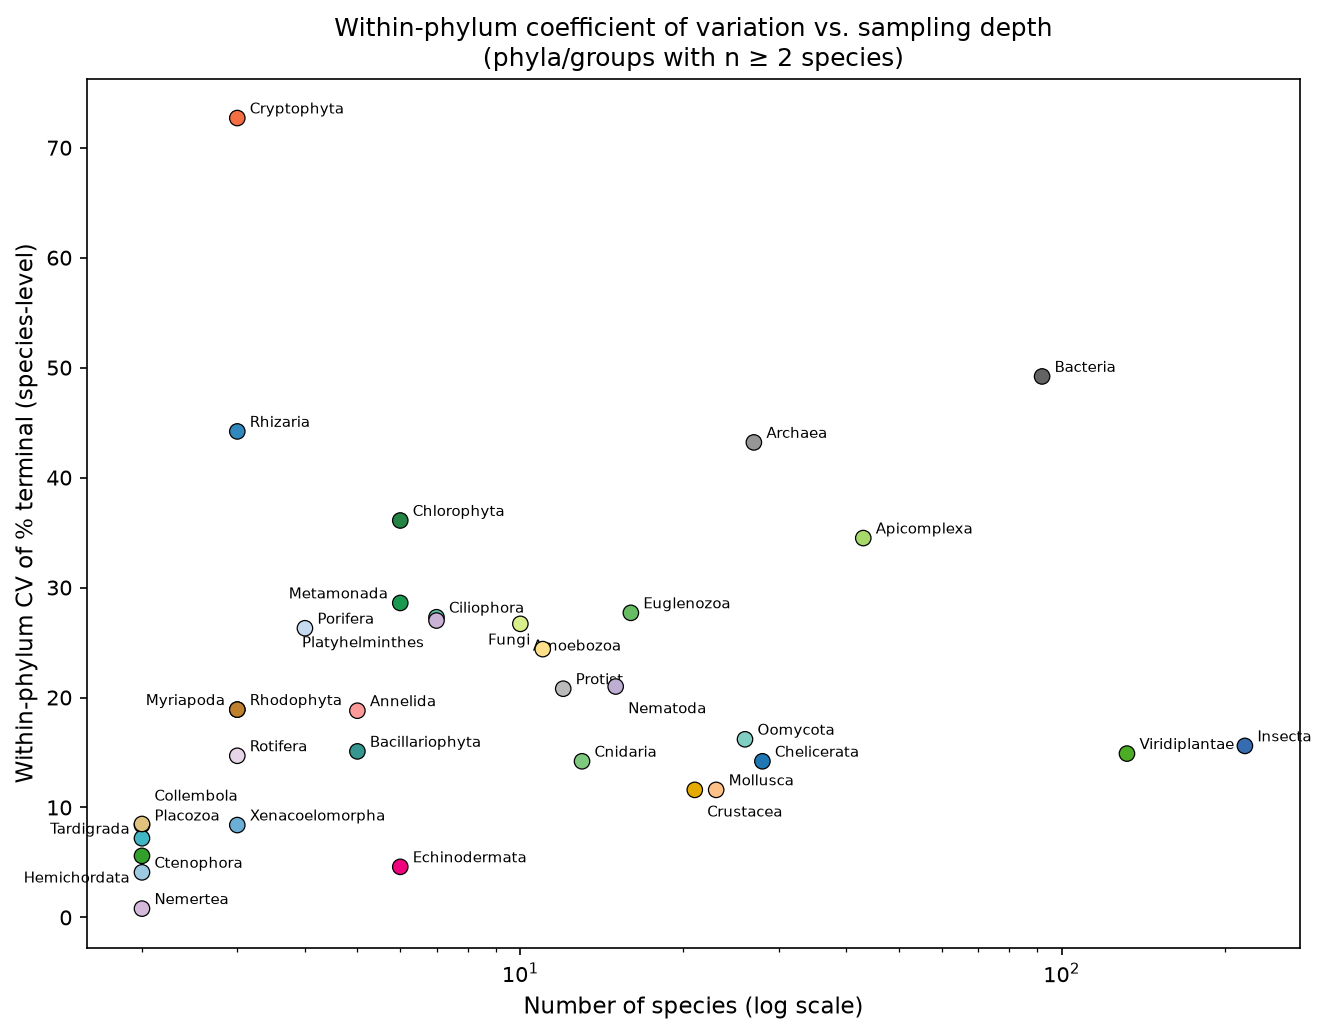
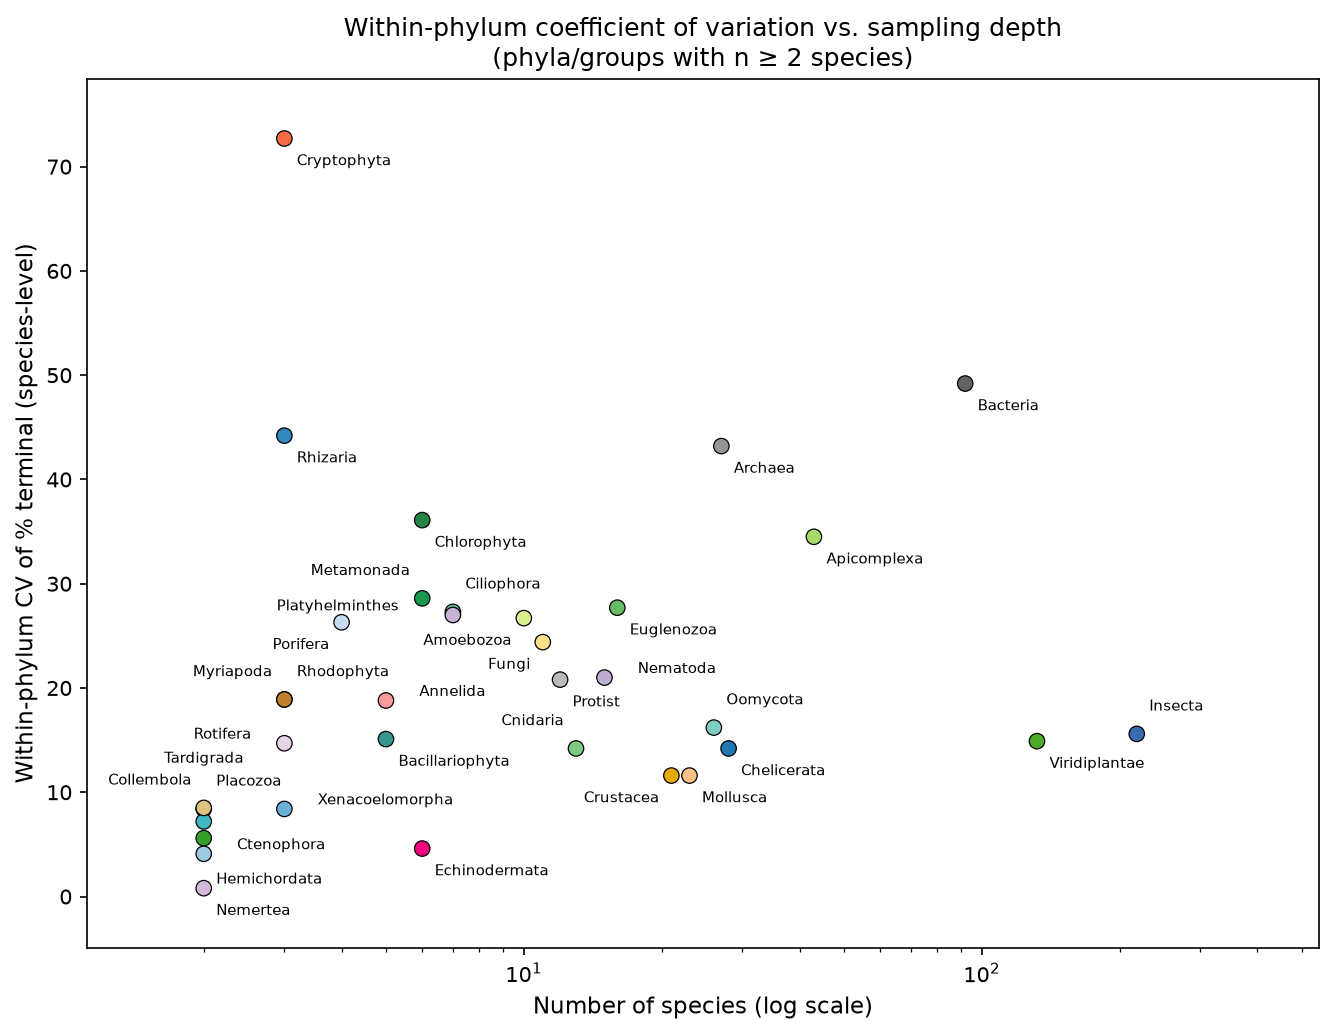
Keep Supp Fig 4 labels inside the axes and off the data markers
The previous label-placement fix avoided label-vs-label overlap but not
label-vs-plot-boundary or label-vs-marker overlap, so a few labels ran
past the axis edge (e.g. the leftmost, lowest-n phyla) and Metamonada's
label sat partly under the Ciliophora dot, whose higher z-order painted
over its last two letters.

Fixes: added explicit axis padding beyond the data range so edge points
have room, an in-bounds check so a candidate offset is only accepted if
it stays inside the axes rectangle, and obstacle boxes for every scatter
marker (not just previously-placed labels) so a label can no longer land
on top of a neighbouring dot. Added a few longer-radius candidate offsets
so tightly clustered points can still find a free slot within the now
enforced bounds.

suppfig1_phylum_distribution.pdf is byte-diffed as "modified" only
because re-running the owning script re-saved it (PDF metadata) — its
code and content are unchanged; its PNG is identical and not in this diff.

diff --git a/scripts/09_phylum_stats.py b/scripts/09_phylum_stats.py
@@ -23,6 +23,7 @@ import numpy as np
 import matplotlib
 matplotlib.use("Agg")
 import matplotlib.pyplot as plt
+import matplotlib.transforms
 from scipy.stats import kruskal, mannwhitneyu
 from pathlib import Path
 
@@ -32,50 +33,70 @@ from config import (
 )
 
 
-def _place_labels_no_overlap(fig, ax, xs, ys, labels, fontsize=7, pad_px=2.0):
+def _place_labels_no_overlap(fig, ax, xs, ys, labels, fontsize=7, pad_px=2.0,
+                              marker_size_pt2=55):
     """
     Annotate each (x, y) point with its label, picking the first candidate
     offset (in points, tried in increasing distance from the point) whose
-    rendered bounding box doesn't overlap a already-placed label. Falls back
-    to the offset with the least overlap if every candidate collides — dense
-    clusters (e.g. several low-n phyla at similar CV) would otherwise stack
-    labels on top of each other with a fixed offset.
+    rendered bounding box doesn't overlap a already-placed label or any
+    scatter marker. Falls back to the least-bad candidate if every option
+    collides — dense clusters (e.g. several low-n phyla at similar CV) would
+    otherwise stack labels on top of each other or under a neighbouring dot
+    (whose higher z-order then paints over the label text) with a fixed
+    offset.
     """
     fig.canvas.draw()  # establish a renderer so get_window_extent() works
     renderer = fig.canvas.get_renderer()
+    axes_box = ax.get_window_extent(renderer)  # plot area in display pixels
 
     candidates = [
         (6, 4, "left"), (6, -11, "left"), (-6, 4, "right"), (-6, -11, "right"),
         (6, 13, "left"), (-6, 13, "right"), (6, -20, "left"), (-6, -20, "right"),
         (16, 4, "left"), (-16, 4, "right"), (16, -11, "left"), (-16, -11, "right"),
         (0, 20, "center"), (0, -22, "center"),
+        (26, 4, "left"), (-26, 4, "right"), (0, 30, "center"), (0, -32, "center"),
     ]
 
-    placed_boxes = []  # display-coordinate (x0, y0, x1, y1) of placed labels
+    # Every scatter marker is a permanent obstacle so a label never lands on
+    # top of a (higher z-order) dot and gets visually clipped by it.
+    marker_radius_px = ((marker_size_pt2 / 3.14159) ** 0.5) * fig.dpi / 72.0 + pad_px
+    placed_boxes = []  # display-coordinate (x0, y0, x1, y1) of obstacles (markers + placed labels)
+    for x, y in zip(xs, ys):
+        cx, cy = ax.transData.transform((x, y))
+        placed_boxes.append(matplotlib.transforms.Bbox(
+            [[cx - marker_radius_px, cy - marker_radius_px],
+             [cx + marker_radius_px, cy + marker_radius_px]]))
 
     def _overlaps(b1, b2):
         return not (b1.x1 + pad_px < b2.x0 or b2.x1 + pad_px < b1.x0 or
                     b1.y1 + pad_px < b2.y0 or b2.y1 + pad_px < b1.y0)
 
+    def _inside_axes(bbox):
+        return (bbox.x0 >= axes_box.x0 and bbox.x1 <= axes_box.x1 and
+                bbox.y0 >= axes_box.y0 and bbox.y1 <= axes_box.y1)
+
     for x, y, label in zip(xs, ys, labels):
-        best_dx, best_dy, best_ha, best_overlap_count = candidates[0][0], candidates[0][1], candidates[0][2], None
+        best_dx, best_dy, best_ha = candidates[0][0], candidates[0][1], candidates[0][2]
+        best_score = None  # (out_of_bounds: bool, n_overlap: int) — lower is better
         for dx, dy, ha in candidates:
             txt = ax.annotate(
                 label, xy=(x, y), xytext=(dx, dy), textcoords="offset points",
                 ha=ha, va="center", fontsize=fontsize,
             )
             bbox = txt.get_window_extent(renderer)
+            out_of_bounds = not _inside_axes(bbox)
             n_overlap = sum(_overlaps(bbox, b) for b in placed_boxes)
-            if n_overlap == 0:
+            score = (out_of_bounds, n_overlap)
+            if score == (False, 0):
                 placed_boxes.append(bbox)
-                best_overlap_count = 0
+                best_score = score
                 break
             txt.remove()
-            if best_overlap_count is None or n_overlap < best_overlap_count:
-                best_overlap_count = n_overlap
+            if best_score is None or score < best_score:
+                best_score = score
                 best_dx, best_dy, best_ha = dx, dy, ha
         else:
-            # Nothing collision-free: keep the least-overlapping candidate.
+            # Nothing both in-bounds and collision-free: keep the best-scoring candidate.
             txt = ax.annotate(
                 label, xy=(x, y), xytext=(best_dx, best_dy),
                 textcoords="offset points", ha=best_ha, va="center",
@@ -190,6 +211,14 @@ def main():
     ax4.scatter(cv_plot["n_species"], cv_plot["cv_pct"], c=colours4, s=55,
                 edgecolors="black", linewidths=0.6, zorder=5)
     ax4.set_xscale("log")
+    # Extra headroom beyond the data range so edge-point labels (e.g. the
+    # leftmost single-digit-species phyla, or Insecta at the far right) have
+    # somewhere to go instead of being pushed past the plot border.
+    x_min, x_max = cv_plot["n_species"].min(), cv_plot["n_species"].max()
+    ax4.set_xlim(x_min / 1.8, x_max * 2.5)
+    y_min, y_max = cv_plot["cv_pct"].min(), cv_plot["cv_pct"].max()
+    y_pad = (y_max - y_min) * 0.08
+    ax4.set_ylim(y_min - y_pad, y_max + y_pad)
     _place_labels_no_overlap(fig4, ax4, cv_plot["n_species"].values,
                               cv_plot["cv_pct"].values, cv_plot["phylum"].values)
     ax4.set_xlabel("Number of species (log scale)", fontsize=11)
